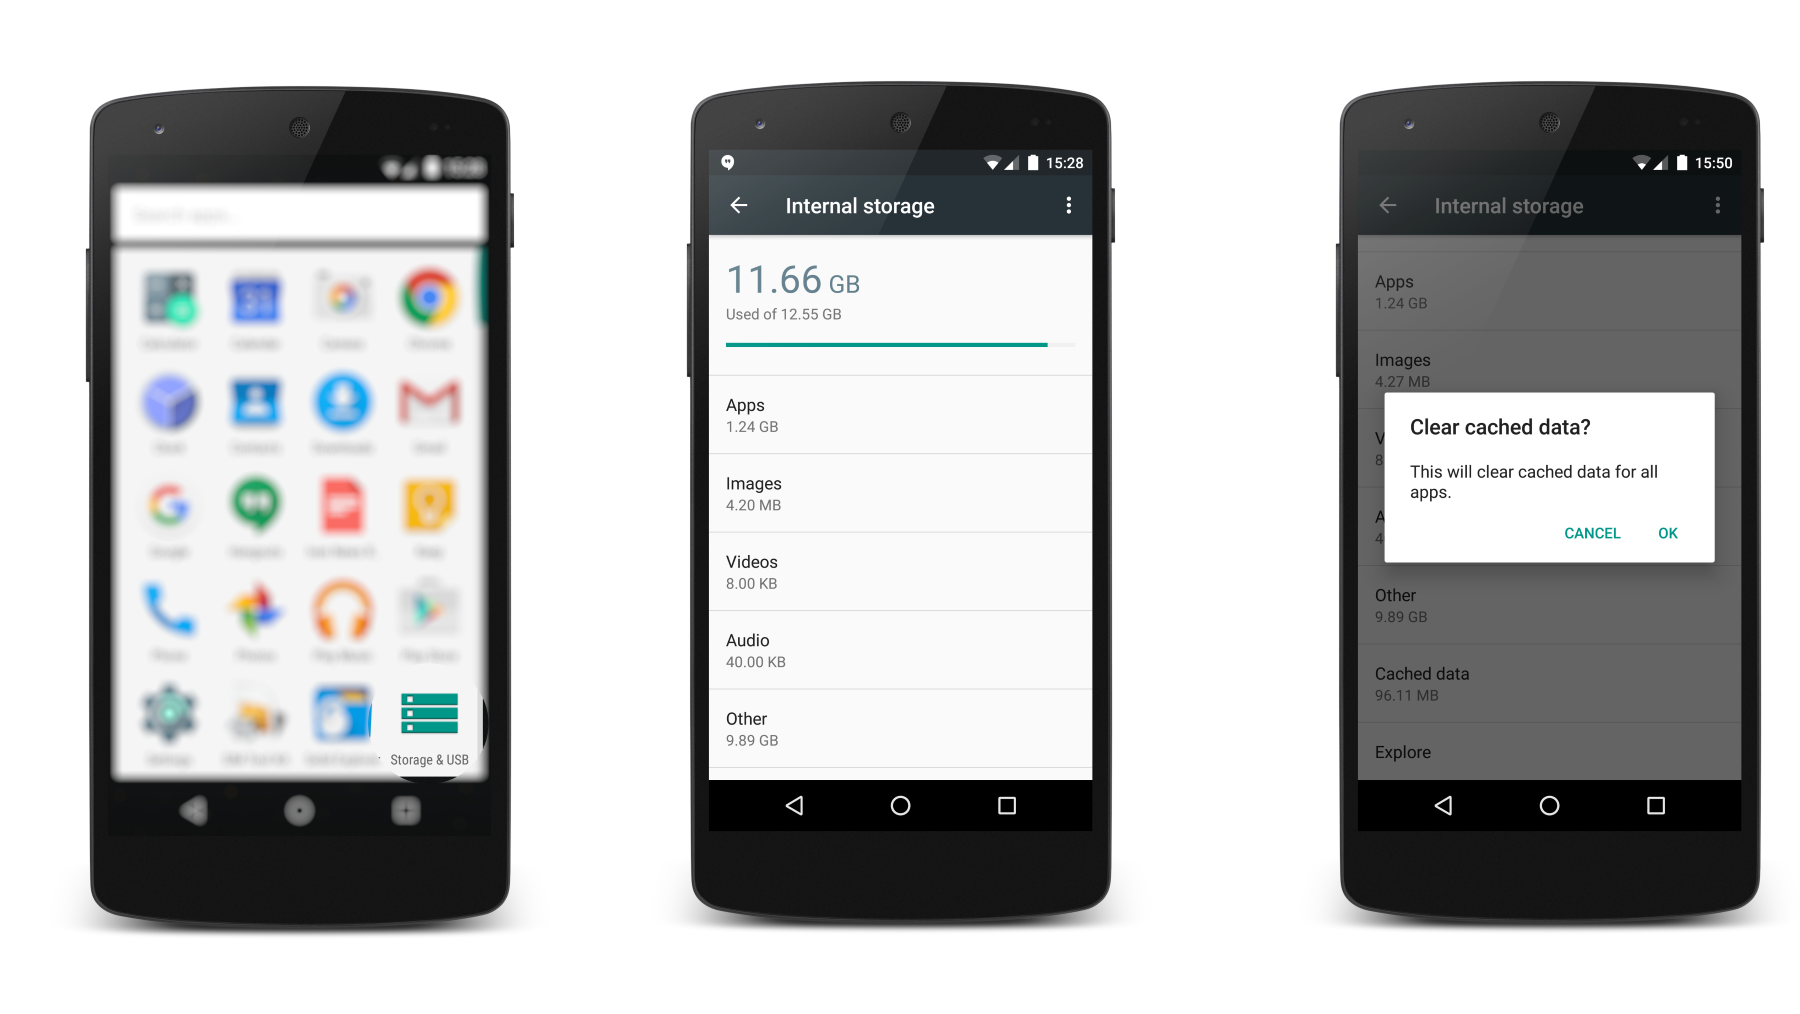
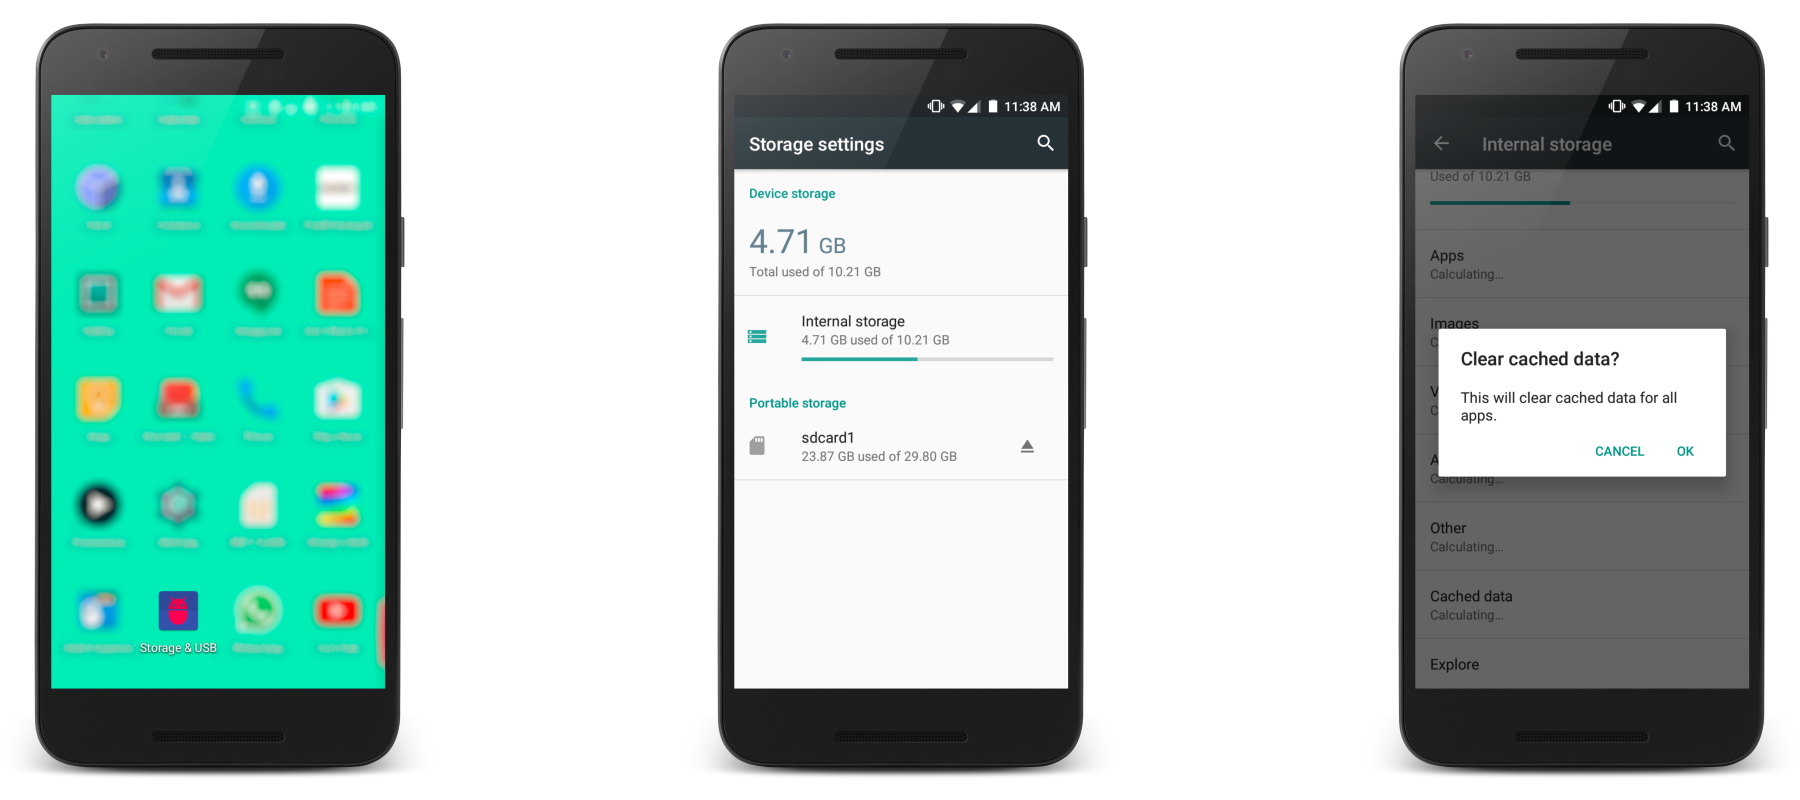
bump version to 2.0.3
icon change

diff --git a/README.md b/README.md
@@ -24,4 +24,4 @@ Icons made by <a href="http://www.flaticon.com/authors/google" title="Google">Go
 
 ![ScreenShot](https://raw.githubusercontent.com/enricocid/Storage-USB/master/art/art.png)
 
-You can download the latest (2.0.2) signed APK from this repo here: https://github.com/enricocid/Storage-USB/raw/master/project/app/app-release.apk
+You can download the latest (2.0.3) signed APK from this repo here: https://github.com/enricocid/Storage-USB/raw/master/project/app/app-release.apk
